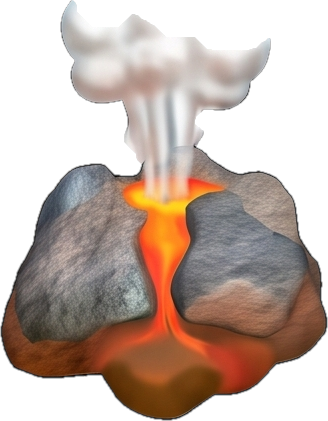
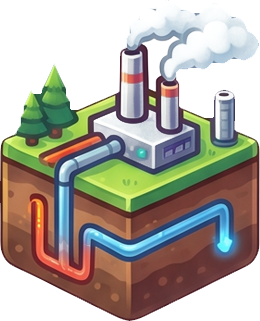
33: C-.psd 위치·크기·지열 반영

diff --git a/33_game_pinball/index.html b/33_game_pinball/index.html
@@ -300,18 +300,19 @@ const SCORE_FIRST = 300, SCORE_REPEAT = 50, SCORE_CLEAR = 3000;
 const SPEED_BASE = 8.5, SPEED_MAX = 14.5;
 
 /* ------------------ 에너지원 정의 (11종) ------------------ */
+// 위치·크기는 C-.psd 목업(3840×2160 = 스테이지 2배)에서 검출해 필드 좌표(880×940)로 변환
 const ENERGY = [
-  { id:'sun',    name:'태양열',        chip:'#ffe3b3', x:128, y:158, r:56 },
-  { id:'pv',     name:'태양광발전',    chip:'#cfe6ff', x:330, y:122, r:58 },
-  { id:'wind',   name:'풍력',          chip:'#dff1ff', x:552, y:142, r:58 },
-  { id:'h2',     name:'수소에너지',    chip:'#e6e0ff', x:762, y:158, r:54 },
-  { id:'bio',    name:'바이오매스',    chip:'#e2f3d1', x:112, y:352, r:52 },
-  { id:'fuel',   name:'연료전지',      chip:'#d9f2e6', x:308, y:308, r:50 },
-  { id:'coal',   name:'석탄액화가스화', chip:'#e8e3de', x:528, y:330, r:52 },
-  { id:'ocean',  name:'해양에너지',    chip:'#cce9f6', x:748, y:342, r:54 },
-  { id:'hydro',  name:'소수력',        chip:'#d4ecf9', x:206, y:528, r:50 },
-  { id:'geo',    name:'지열',          chip:'#ffdfd1', x:448, y:498, r:52 },
-  { id:'waste',  name:'폐기물에너지',  chip:'#e5f0d4', x:688, y:520, r:50 },
+  { id:'sun',    name:'태양열',        chip:'#ffe3b3', x:267, y:195, r:77 },
+  { id:'pv',     name:'태양광발전',    chip:'#cfe6ff', x:125, y:123, r:76 },
+  { id:'wind',   name:'풍력',          chip:'#dff1ff', x:533, y:168, r:82 },
+  { id:'h2',     name:'수소에너지',    chip:'#e6e0ff', x:387, y:336, r:77 },
+  { id:'bio',    name:'바이오매스',    chip:'#e2f3d1', x:725, y:308, r:71 },
+  { id:'fuel',   name:'연료전지',      chip:'#d9f2e6', x:351, y:551, r:77 },
+  { id:'coal',   name:'석탄액화가스화', chip:'#e8e3de', x:134, y:373, r:77 },
+  { id:'ocean',  name:'해양에너지',    chip:'#cce9f6', x:174, y:653, r:76 },
+  { id:'hydro',  name:'소수력',        chip:'#d4ecf9', x:722, y:138, r:67 },
+  { id:'geo',    name:'지열',          chip:'#ffdfd1', x:729, y:588, r:73 },
+  { id:'waste',  name:'폐기물에너지',  chip:'#e5f0d4', x:590, y:428, r:75 },
 ];
 
 /* =====================================================================
